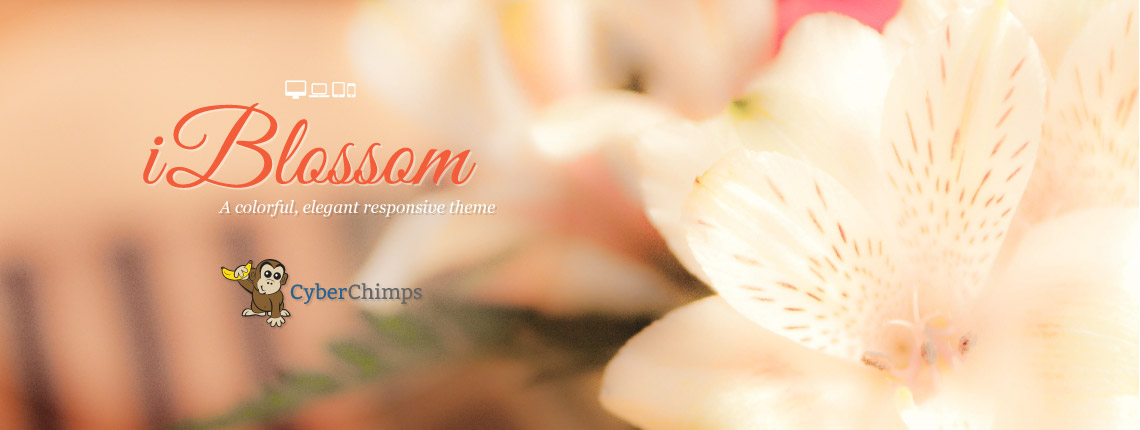
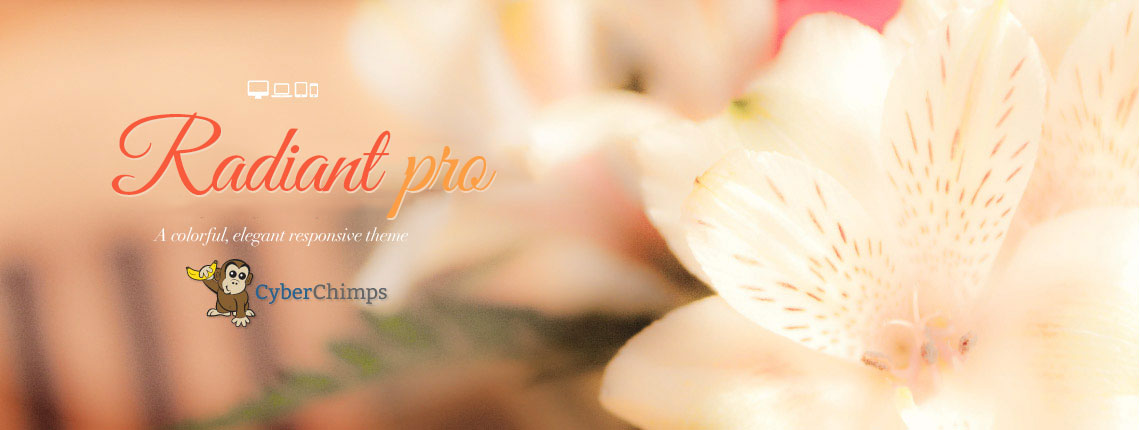
updated theme to be radiant

diff --git a/style.css b/style.css
@@ -5,7 +5,7 @@ Author: CyberChimps
 Author URI: http://cyberchimps.com/
 Description: Radiant is a fully Responsive Drag & Drop Starter Wordpress Theme that adds amazing new functionality to your Wordpress website. Featuring Twitter Bootstrap, and responsive touch friendly theme options that work on any device.
 Version: 1.0.0.0
-Tags:  orange, white, light, two-columns, right-sidebar, fixed-layout, fluid-layout, responsive-layout, custom-background, custom-colors, custom-menu, featured-images, post-formats, theme-options, sticky-post, colorful, elegant
+Tags:  orange, white, light, two-columns, right-sidebar, fixed-layout, fluid-layout, responsive-layout, custom-background, custom-colors, custom-menu, featured-images, post-formats, theme-options, sticky-post
 License: GNU General Public License
 License URI: http://www.opensource.org/licenses/gpl-license.php GPL v3.0 (or later)
 */
@@ -134,17 +134,31 @@ header {
 /*======================================= SOCIAL ==============================================*/
 
 #cc-header #social a {
-  margin-left: 5px;
-  margin-top: 12px;
+	margin-left: 5px;
+	margin-top: 12px;
 }
 
 .icons {
-  margin-top: 15px;
+	margin-top: 15px;
 }
 
 #social .icons img {
-  height: 32px;
-  width: 32px;
+	height: 32px;
+	width: 32px;
+}
+
+.default-icons a.symbol {
+	border-radius: 50%;
+	padding: 5px 0px;
+	color: #f35d39;
+	background: #f6f7f6;
+	border: 1px dotted #f35d39;
+	-moz-box-shadow: 1px 1px 1px rgba(0, 0, 0, 0.23);
+	box-shadow: 1px 1px 1px rgba(0, 0, 0, 0.23);
+}
+
+.default-icons a.symbol:hover {
+	opacity: .8;
 }
 
 /*======================================= DETAILS =============================================*/

diff --git a/functions.php b/functions.php
@@ -17,7 +17,7 @@
 
 // Load text domain.
 function cyberchimps_text_domain() {
-	load_theme_textdomain( 'Radiant', get_template_directory() . '/inc/languages' );
+	load_theme_textdomain( 'radiant', get_template_directory() . '/inc/languages' );
 }
 add_action( 'after_setup_theme', 'cyberchimps_text_domain' );
 
@@ -298,3 +298,11 @@ function cyberchimps_blog_draganddrop_defaults() {
 }
 
 add_filter( 'cyberchimps_elements_draganddrop_defaults', 'cyberchimps_blog_draganddrop_defaults' );
+
+// Customize social icons.
+function cyberchimps_social_icon_options( $options ) {
+	$options['default'] = get_template_directory_uri() . '/images/social/default.png';
+
+	return $options;
+}
+add_filter( 'cyberchimps_social_icon_options', 'cyberchimps_social_icon_options' );
